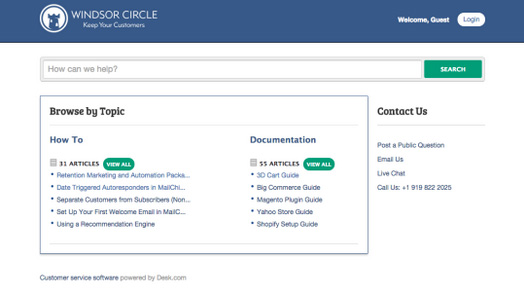
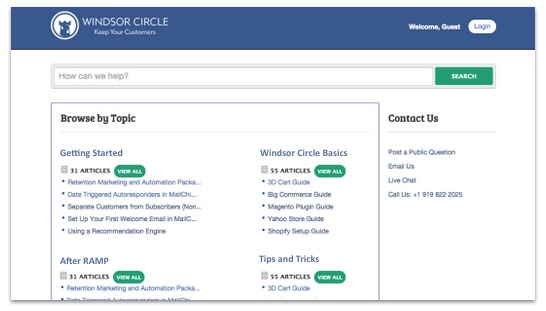
updated copy for knowledge base project

Changed region(s): [[0.0, 0.0, 1.0, 0.9829]]

diff --git a/project4.html b/project4.html
@@ -47,46 +47,56 @@
         <h2 class="header teal-header">KNOWLEDGE BASE</h2>
       </div>
       <div id="project-text">
-          <h4>CHALLENGE</h4>
-          <p>In the early stages of the company, we were without a product team to guide development. The result was a product with user experience shortcomings that had yet to be folded into the pipeline. The client success team was the interim solution for ensuring users adoption while the product could not yet stand alone. This made client success an integral part of the product for each client. Each strategist’s role was to not only relay email marketing best practices, but to also teach clients how to use the product. 
-</p>
-          <div id="one">
-            <img src="../images/supportbefore.jpg">
+        <div id="one">
+            <img src="../images/supportafter.jpg">
           </div>
-          <address>Existing design</address>
-          <p>As it stood, phone communication between strategists and clients was the primary way clients were accessing information about the product. The support site was long abandoned and very outdated. I decided that we needed to reincarnate the support site as a useful tool to create autonomy for clients, ensuring that they would more quickly find value in the product and be retained users.
+          <h4>BACKGROUND</h4>
+          <p>In the early stages of the company, customer support resources were a critical factor in the success of a B2B SaaS product. </p><p>
+
+The existing support site was outdated and unfinished. As a member of the Client Success department, I saw an opportunity to build out the support site in order to create an accurate and dependable resource. The goal was to increase autonomy in client product usage by providing an alway-accessible knowledge base.
+
 </p>
+          
+          
 
-          <h4>PROCESS</h4>
-          <p>First I did an audit of the existing support site. I slashed what was no longer relevant, saving the articles that would be updated and reformatted. I met with the tech specialist to ensure that the technical documentation was also minimized and updated.  
+          <h4>SITE MAPPING</h4>
+          <p>I performed an audit of the existing support site, sorting articles that needed to go, stay, or be updated. I delegated the technical documentation audit to a technical support specialist.
           </p>
-          <p>
-          During my audit, I realized that we had a hidden product feature buried in our app that the team was previously unaware of. The application was linking to support articles individually defining key terms. In order to make this feature reliable, I updated the term definitions, linking them together with both a single “table of contents” style document and tags so that they would be easier and more intuitive to explore.
+          <p>During my audit I uncovered a live, hidden feature in the product that was directly linked to a subset of now outdated articles. Updating these became a prioritized project, as the articles were linked directly to real product users.o explore.
            </p><p>
-          Next, I took stock of what was missing from the documents that were left. I asked the rest of the team for the FAQs they felt they were explaining over and over again and added them to my list of essential documentation we needed to have be accessible.
-
+          Because there was no existing categorization, I added my own. Based on existing common pain points and frequently asked questions, I mapped out the extent of information needed. I organized the existing content within these new categories and collected a list of missing content.
           </p>
-          <p>
-         With all of the FAQs mapped out, I updated the information architecture of the entire site. I reorganized categories, added <a href="https://docs.google.com/document/d/1wu3_qlSMWSCT1TbX_jVeP9U4f0-Mo_5y3mkS6TtfP4U/edit?usp=sharing" target="_blank" alt="Sample 1">new</a> <a href="https://docs.google.com/document/d/1TPQ72zzdABJgTRjVxB_Jk7umT9PUoV6JCW2RBPqg6tc/edit?usp=sharing" target="_blank" alt="Sample 2">ones</a>, and organized them in a flow from onboarding, to basic troubleshooting, through advanced strategies.
+         
+          <h4>CONTENT HIERARCHY</h4>
+          <p>With all of the FAQs mapped out, I took the first step in updating the architecture of the site. I organized categories in an order that mimicked client flow: from onboarding, to basic troubleshooting, through advanced strategies.
           </p>
-           <div id="one">
+          <div id="one">
             <img src="../images/supportwhiteboard.jpg">
           </div>
-          <p>To keep the team enthusiastic about this new resource I was making, I outlined my master plan of all of the new articles I would create organized under the new category structure. This list was drawn up on our office whiteboard to create visible accountability and a clear timeline of when new support articles would be available for use. I prioritized by quarter, checking off each article as it became live.</p>
-          <p>Then I began writing new articles. I asked a few colleagues to contribute, editing their articles and ensuring that each followed the same consistent formatting for ease of use by our clients.</p>
-          <p>
-          Finally, I did a complete overhaul of the site in order to sync it with the company’s brand guidelines. I learned Liquid to edit the UI. This update boosted the sites legitimacy, making it more inviting.
-           </p>
-          <h4>OUTCOME</h4>
-          <p>The support site became a reliable tool that we immediately started sharing with clients. Non-strategy phone calls were cut, as clients were directed to the intuitive, self-service resources. We found that the information was more easily retained when clients were given it in writing, rather than over the phone.
+          <h4>CONTENT CREATION</h4>
+          <p>I outlined my master plan of all of the new articles that needed to be created. I drew it up on the office whiteboard to create visible accountability and a clear timeline of when new support articles would be live and available for the team to use. I prioritized by quarter, checking off each article as it became live.
+          </p>
+          <h4>STANDARDIZED UI</h4>
+          <p>To take the organization a step further, I reworked the whole UI. I learned Liquid templating language to bring the UI up to brand standards and increase the legitimacy of the experience.</p><p>
+
+Each article received a standardized format and design to create a consistent and delightful experience across the site. </p>
+
           </p>
           <div id="one">
             <img src="../images/supportafter.jpg">
           </div>
-          <address>Updated UI before recategorization</address>
+          <h4>SEARCH AND BROWSE NAVIGATION</h4>
           <p>
-          The surprise benefit of this project was that the support site became a resource for our internal team as well. Within client success, these articles became a training resource. For the sales department, associates could look up the details of a particular feature to more easily explain it to prospects. The marketing and product teams both recycled the content into thought leadership content visible to the public.
+          While the site mapping provided an intuitive way to browse, I had to account for search navigation as well. I added search terms to every article, making sure to add the nomenclature of every audience within our client base. The common nomenclature of marketers, CEOs, engineers, and small business owners was all incorporated to guarantee a smooth search experience.</p><p>
+
+To make searching and browsing even more optimized, I added related pages, covering all bases for those looking for content that may be nestled under different parent categories.
           </p>
+
+          <h4>UNEXPECTED OUTCOMES</h4>
+<p>The support site became an immediately reliable tool to clients. Direct contact with team customer service team decreased as a result of our new, self-service resource. We found that the information was more easily retained when clients were given it in writing, rather than over the phone.</p><p>
+
+The surprise benefit of this project was that the knowledge base became an internal resource as well. Within client success, these articles became a training resource. For the sales department, associates could look up the details of a particular feature to more easily explain it to prospects. The marketing and product teams recycled the articles into thought-leading inbound marketing content and blog posts.</p>
+
         </div>
         <div id="project-nav">
           <p><a href="/project3">&larr;</a> &nbsp;&nbsp;&nbsp;&nbsp;<a href="index.html#portfolio-area">&#9783;</a>&nbsp;&nbsp;&nbsp;&nbsp; <a href="/project8">&rarr;</a></p>
